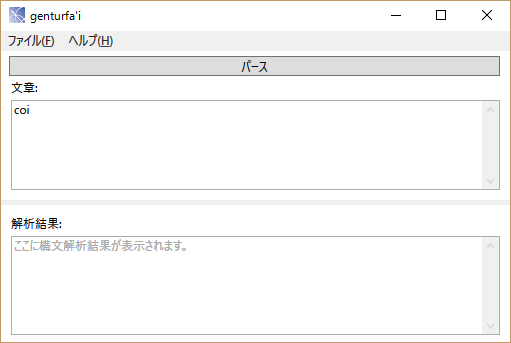
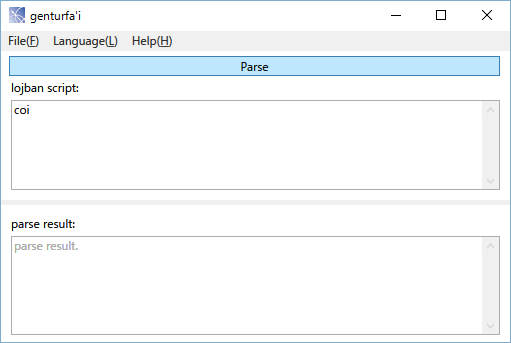
add: README.en.md

diff --git a/README.md b/README.md
@@ -1,97 +1,79 @@
 # genturfa'i
 
+ * [日本語ヘルプ(README.ja.md)](README.ja.md)
+
 <table>
   <tr>
-    <th>ソフト名前</td>
-    <td>「genturfa'i」</td>
+    <th>Name</td>
+    <td>genturfa'i</td>
   </tr>
   <tr>
-    <th>バージョン</td>
-    <td>ソフト起動後「バージョン情報」を参照してください</td>
+    <th>Version</td>
+    <td>Pleaserence application</td>
   </tr>
   <tr>
-    <th>種別</td>
-    <td>フリーソフト</td>
-  </tr>
-  <tr>
-    <th>作者名</td>
+    <th>Author</td>
     <td>baban</td>
   </tr>
 </table>
 
-ファイルは下のURLで公開されています。
+File can download below link.
 
  * http://babanba-n.iobb.net/file/genturfahi.html
 
 ![alt screenshot](/image/screeenshot.png)
 
-ソースコードはgithub上で公開されています。
+Sourcecode is opened below URL.
 
 [https://github.com/baban/genturfahi](https://github.com/baban/genturfahi)
 
-# INDEXES
+## What is this?
 
- * これは何？
+genturfa'i is a windows software that parse artifical language lojiban.
 
-## これは何？
-
-人口言語ロジバンの構文解析を行うパーサーです。
-
-「Official LLG Parser」をWindowsのアプリケーションから簡単に使えるフロントエンドとして実装されています。
+It is implemented fromtend that Official lojibang parser.
 
  * [Official LLG Parser](https://mw.lojban.org/papri/Official_LLG_Parser)
- * [Wikipedia ロジバン](https://ja.wikipedia.org/wiki/ロジバン)
- * [はじめてのロジバン](http://seesaawiki.jp/hajiloji/)
+ * [Wikipedia Lojban](https://en.wikipedia.org/wiki/Lojban)
 
-## 動作環境
+## Operationg enviroment
 
- * .Net Framework4.5以上がインストールされているWindowsマシン
- * 動作確認はWindows10で行っていますが、WindowsVista以降であれば問題なく動くはずです。
+ * It is required .Net Framework 4.5 or higher.
+ * Software is checked Windows 10 Enviroment,But I guess it can work Windows Vista or higher.
 
-## 免責
+## Install/Uninstall
 
-動作確認には細心の注意を払っていますが、このソフトを使ったことによる
-いかなる損害に対しても、作者は責任を負う事は出来ません
-ご使用については自己責任の下でお願いいたします。
+### Install
 
-## インストール・アンインストール
+Archive zip file and double ckick "genturfahi.exe" in directory.
 
-### インストール
+### Uninstall
 
-インストール作業は必要ありません。
-解凍されたzipファイルの中、手元の「genturfahi.exe」をそのまま実行すればアプリケーションが立ち上がります。
+Only delete archived zip deirectory.
 
-### アンインストール
+## Wou to use?
 
-いらなくなったら、解凍時に出来たフォルダをそのまま削除していただければ大丈夫です。
+Please write lojban script in upper text box and push Enter key.
+Parse result express in bewlow text box.
 
-## 使い方
+Parse result is decorated from original script, for example, "coi" is parsed it will return "({coi DO'U} /FA'O/)"
+decorate word and marks express structure, and complete omitted words in usually.
 
-アプリケーションを起動したら、画面上のテキストボックスにロジバン文を入力してください。
-解析結果が、下のテキストボックスに表示されます。
+If parse error occoued, it will express error description on red color.
 
-解析結果の見方ですが
-
-デフォルトの例文の「coi」を解析すると、「({coi DO'U} /FA'O/)」として帰ってきますが、"DO'U"や"FA'O"は
-構文として省略可能な文字を追加した形で結果を返します。
-ですので「coi do'u」等省略できるものをあえて追加しても
-「coi」の時とほぼ同じ解析結果を返します。
-
-パースに失敗すると、赤文字でエラーが起きた行番号を返します。
-
-## ロジバン例文集
+## Example sentences
 
 <dl>
   <dt>coi</dt>
-  <dd>訳：Hello</dd>
+  <dd>Hello</dd>
   <dt>ti penbi</dt>
-  <dd>訳：これはペンです</dd>
+  <dd>This is a pen</dd>
   <dt>mi prami du</dt>
-  <dd>訳：I love you.</dd>
+  <dd>I love you.</dd>
   <dt>le ninmu cu melbi</dt>
-  <dd>訳：その女性は美しい。</dd>
+  <dd>this woman is beautiful</dd>
 </dl>
 
-## 開発環境、謝辞
+## Development enviroment
 
-このソフトはVisual Studio 2013で開発をしています。
+This software is developped under windows enviroment and Visual Studio 2013.

diff --git a/README.ja.md b/README.ja.md
@@ -1,33 +1,45 @@
 # genturfa'i
 
-ソフト名前：「genturfa'i」
+* [[English Help(README.md)](README.md)
 
-バージョン：　ソフト起動後「バージョン情報」を参照してください
-
-種別　　　：　フリーソフト
-
-作者名    ： baban
+<table>
+  <tr>
+    <th>ソフト名前</td>
+    <td>「genturfa'i」</td>
+  </tr>
+  <tr>
+    <th>バージョン</td>
+    <td>ソフト起動後「バージョン情報」を参照してください</td>
+  </tr>
+  <tr>
+    <th>種別</td>
+    <td>フリーソフト</td>
+  </tr>
+  <tr>
+    <th>作者名</td>
+    <td>baban</td>
+  </tr>
+</table>
 
 ファイルは下のURLで公開されています。
 
-[http://babanba-n.iobb.net/file/genturfahi.zip](http://babanba-n.iobb.net/file/genturfahi.zip)
+ * http://babanba-n.iobb.net/file/genturfahi.html
 
-![alt screenshot](/image/screeenshot.png)
+![alt screenshot](/image/screeenshot.ja.png)
 
 ソースコードはgithub上で公開されています。
 
 [https://github.com/baban/genturfahi](https://github.com/baban/genturfahi)
-
-# INDEXES
-
- * これは何？
 
 ## これは何？
 
 人口言語ロジバンの構文解析を行うパーサーです。
 
 「Official LLG Parser」をWindowsのアプリケーションから簡単に使えるフロントエンドとして実装されています。
-https://mw.lojban.org/papri/Official_LLG_Parser
+
+ * [Official LLG Parser](https://mw.lojban.org/papri/Official_LLG_Parser)
+ * [Wikipedia ロジバン](https://ja.wikipedia.org/wiki/ロジバン)
+ * [はじめてのロジバン](http://seesaawiki.jp/hajiloji/)
 
 ## 動作環境
 
@@ -45,7 +57,7 @@ https://mw.lojban.org/papri/Official_LLG_Parser
 ### インストール
 
 インストール作業は必要ありません。
-手元の「genturfahi.exe」をそのまま実行すればアプリケーションが立ち上がります。
+解凍されたzipファイルの中、手元の「genturfahi.exe」をそのまま実行すればアプリケーションが立ち上がります。
 
 ### アンインストール
 
@@ -67,17 +79,16 @@ https://mw.lojban.org/papri/Official_LLG_Parser
 
 ## ロジバン例文集
 
-coi
-訳：Hello          
-
-ti penbi
-訳：これはペンです
-
-mi prami du
-訳：I love you.
-
-le ninmu cu melbi
-訳：その女性は美しい。
+<dl>
+  <dt>coi</dt>
+  <dd>訳：Hello</dd>
+  <dt>ti penbi</dt>
+  <dd>訳：これはペンです</dd>
+  <dt>mi prami du</dt>
+  <dd>訳：I love you.</dd>
+  <dt>le ninmu cu melbi</dt>
+  <dd>訳：その女性は美しい。</dd>
+</dl>
 
 ## 開発環境、謝辞
 
